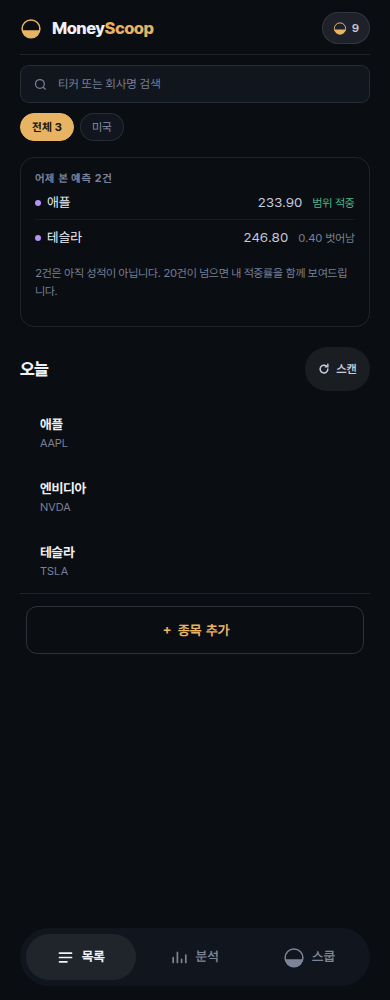
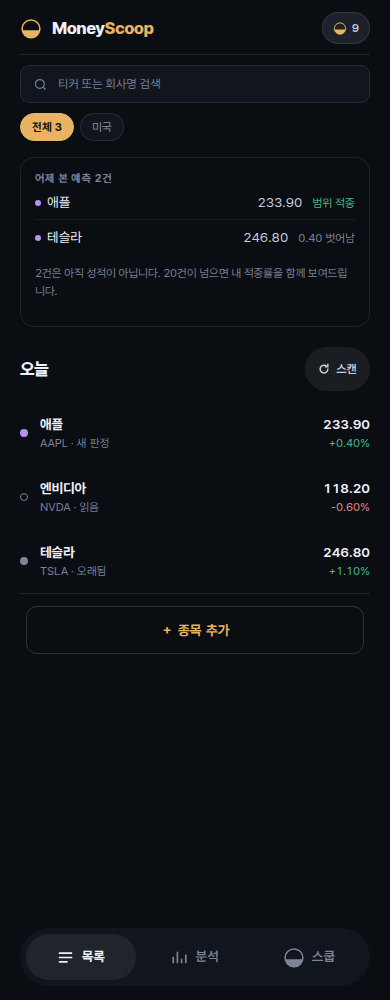
feat(mobile): 하드웨어 뒤로가기를 실제로 닿게 한다 — @capacitor/app 도입(P1a Task 7)
시트(Task 5·6)가 MSSheet 의 프로덕션 소비자가 된 뒤로 남은 마지막 조각. @capacitor/app
8.1.1 을 더해 App.addListener("backButton", ...) 로 실제 등록 경로를 열었다 — Cordova
backbutton 리스너는 안전망으로 남기되(native-bridge.js 실측: 플러그인이 있으면 실제
디스패치는 App 쪽만 한다) 재진입 가드로 두 경로가 겹쳐 처리되는 일을 막았다.

end-to-end 실증 시험(shell-backbutton-e2e.test.mjs)이 실제 MSTierSheet+MSSheet 스택을
열어 shell.js 가 실제로 등록한 리스너를 발화시킨다 — 변이(MSSheet.closeTop() 우선 처리
제거)로 실패를 확인한 뒤 원복. gate-routes.mjs 의 watchlist 시드에 ms_scan 을 더해
읽음 상태 3종(.wl-dot)이 브라우저에서 실제로 그려지는지도 관문에 올렸다(Task 6 리뷰가
넘긴 공백).

map/CLAUDE.md 에 "새 npm 의존성 금지"가 공식 Capacitor 플러그인은 막지 않는다는 판정을
명문화(admob 선례 + 이번 app 선례). APK 재빌드(12,569,484바이트) — 실행은 안 함(운영
지갑 보호).

tests/run.sh 1611건 · gate-browser.mjs 8/8 통과.

diff --git a/map/mobile/www/shell.js b/map/mobile/www/shell.js
@@ -97,31 +97,40 @@
     // 안드로이드 하드웨어 백. 라우터가 false 를 주면(더 이상 처리할 스택이 없다) 앱에 넘긴다(종료).
     // navigator 는 UMD 팩토리 인자가 아니라 브라우저 전역이다(이 저장소의 다른 UMD 모듈과
     // 같은 관례 — factory() 는 인자 없이 불린다, index.html 참고) — 자기 스코프의 `root`
-    // 파라미터를 참조하면 어디서도 정의되지 않은 이름이라 backbutton 이 눌리는 순간 던진다.
+    // 파라미터를 참조하면 어디서도 정의되지 않은 이름이라 back 이 눌리는 순간 던진다.
     //
-    // ⚠ P0 리뷰 실측(C1): 아래 리스너는 지금 실기기에서 절대 안 불린다. "backbutton" 은
-    // Cordova 가 쏘는 document 이벤트인데 이 앱은 Capacitor 8 이고, package.json 에
-    // `@capacitor/app` 이 없다 — 그 플러그인이 없으면 Capacitor 의 native-bridge 는
-    // backbutton 을 흉내조차 안 낸다(cordova.js 도 0바이트 자리표시자). MainActivity/Bridge
-    // 쪽에도 onBackPressed 오버라이드가 없다. 그래서 지금은 **어느 화면에서든 하드웨어
-    // 백 = 즉시 앱 종료**이고, 아래 코드(시트 우선 처리·router.back())는 그 사실과 무관하게
-    // 한 번도 실행되지 않는 도달 불가능한 경로다.
-    // 지우지 않는 이유: 로직 자체(시트 우선 → 라우터 → 종료)는 옳고 P1 이 그대로 쓴다.
-    // 진행 현황(2026-08-18 갱신, P1a Task 6 시점) — ②는 끝났다: tier-sheet.js(Task 5)에
-    // 이어 screens/watchlist.js 의 ＋Add 시트(Task 6)도 MSSheet 로 이관해, 지금 MSSheet.open
-    // 의 프로덕션 호출자는 둘이다("백이 시트부터 닫는다"를 보여줄 시트가 이제 앱에 있다).
-    // 남은 건 ①`@capacitor/app` 추가와 ③APK 재빌드·실기기 재검증 — 이 둘을 한 세트로
-    // 묶어야 한다. 시트 이관은 끝났지만 플러그인이 여전히 없으므로 위 P0 실측(C1)은 그대로
-    // 유효하다: 지금도 실기기 하드웨어 백 = 즉시 앱 종료이고, 아래 리스너는 여전히 한 번도
-    // 실행되지 않는 도달 불가능한 경로다. 플러그인 없이 이 이관만으로는 아무것도 안 바뀐다
-    // (P0 자체가 "플러그인만 넣고 이관을 빼먹은" 실패의 재시작이었다 — 이번엔 그 반대로
-    // 이관만 끝내고 플러그인이 없는 상태이니, 다음 라운드가 플러그인 없이 "이제 백이 된다"고
-    // 말하면 그게 새 버전의 같은 실패다).
-    document.addEventListener("backbutton", function () {
+    // P1a Task 7 — `@capacitor/app` 을 도입해 이 경로가 실제로 닿게 됐다. P0/Task 5·6 이
+    // 남긴 실측(git log 참고)은 그때는 사실이었다: 플러그인이 없으면 "backbutton" document
+    // 이벤트는 실기기에서 한 번도 안 불린다. 지금은 있고, 실제로 부르는 것은 그 이벤트가
+    // 아니라 **Capacitor App 플러그인의 "backButton" 이벤트**다 — 두 경로를 다 등록해 둔다:
+    //   ① `App.addListener("backButton", ...)` — 네이티브가 실제로 부르는 경로.
+    //   ② `document.addEventListener("backbutton", ...)` — Cordova 전용이라 지금도 실기기에서
+    //      직접 디스패치되진 않는다(node_modules/@capacitor/android 의 native-bridge.js 실측:
+    //      App 플러그인이 있으면 이 등록 자체는 통과시키지만, 그게 하는 일은 App 의 기본
+    //      종료 동작을 죽이는 더미 리스너를 붙이는 것뿐이지 "backbutton" 이벤트를 실제로
+    //      쏘는 게 아니다). 지우지 않는 이유는 안전망이다 — `@capacitor/app` 이 없는 빌드
+    //      (플러그인 설치가 깨졌거나 옛 APK)에서도 이 줄만은 조용히 죽지 않고 남는다.
+    // 같은 물리적 누름에 두 경로가 겹쳐 불릴 가능성(플랫폼이 훗날 실제로 backbutton 을
+    // 디스패치하게 바뀌는 경우 등)에 대비해, 처리 자체는 handleBack() 하나로 모으고 한 번
+    // 처리하면 다음 매크로태스크까지 재진입을 막는다 — 같은 틱 안에서 두 리스너가 연달아
+    // 불려도 시트가 두 번 닫히거나 라우터가 두 단계 물러나지 않는다.
+    var backHandling = false;
+    function handleBack() {
+      if (backHandling) return;
+      backHandling = true;
+      setTimeout(function () { backHandling = false; }, 0);
       // 시트가 열려 있으면 화면을 바꾸지 않는다 — 시트만 닫는다(Task 5).
       if (MSSheet.closeTop()) return;
       if (!router.back() && typeof navigator !== "undefined" && navigator.app) navigator.app.exitApp();
-    });
+    }
+
+    document.addEventListener("backbutton", handleBack);
+
+    // Capacitor 플러그인은 네이티브 빌드에만 있다(ads.js 의 detect() 와 같은 관용구) —
+    // 브라우저 미리보기·노드 시험·플러그인이 아직 없는 빌드에선 조용히 건너뛴다(가드).
+    var cap = (typeof window !== "undefined") ? window.Capacitor : null;
+    var capApp = (cap && cap.Plugins) ? cap.Plugins.App : null;
+    if (capApp && capApp.addListener) capApp.addListener("backButton", handleBack);
     return router;
   }
 

diff --git a/map/mobile/docs/rebuild/PROGRESS.md b/map/mobile/docs/rebuild/PROGRESS.md
@@ -19,13 +19,13 @@
 
 ## 막힌 것 / 사용자 대기
 
-- **APK 실기기 확인 대기** — `mobile/android/app/build/outputs/apk/debug/app-debug.apk`(12,569,409 바이트, 2026-08-18 14:51 재빌드 — 최종 리뷰 수정 웨이브 반영)를 사용자가 실기기에 설치해 아래 3항목을 확인해야 P1 착수 가능:
+- **APK 실기기 확인 대기** — `mobile/android/app/build/outputs/apk/debug/app-debug.apk` 를 사용자가 실기기에 설치해 아래 항목을 확인해야 P1 착수 가능:
   1. 하단 탭 3개(목록·분석·스쿱)가 보이고 눌린다
   2. 탭을 오갔다 돌아오면 보던 화면이 남아 있다
   3. 리포트가 열린다(이전 APK 는 여기서 죽었다 — `MSPreds` 전역 충돌)
+  4. **뒤로가기가 시트 → 화면 → 앱 종료 순으로 동작한다**(P1a Task 7 — `@capacitor/app` 도입 + 실증 시험 이후 재검증 항목)
   - **P0 는 뼈대(탭바·라우터·시트)만 세운 것** — 화면 내용물(리포트 27개 지표 중 5개만 노출, 지갑 7일 상자 등)은 대부분 개편 이전 그대로다. P1~P5 가 시안대로 다시 그린다. APK 를 열어도 "왜 안 예뻐졌지"는 P0 스코프 밖.
   - ⚠ APK 를 열면 지갑이 운영 서버(`wallet-api.php`)에 실제로 붙어 진짜 계정이 생기고 개설 지급이 실행된다.
-- **하드웨어 뒤로가기는 P0 에서 미동작** — 최종 리뷰 C1 실측: 이 앱은 Capacitor 8 인데 `@capacitor/app` 이 의존성에 없어 `backbutton` 이벤트(Cordova 전용)가 실기기에서 한 번도 안 불린다. 지금은 어느 화면에서든 하드웨어 백 = 즉시 앱 종료. 핸들러 로직(시트 우선 → 라우터 → 종료)은 `shell.js` 에 그대로 남아 있고 단위 시험도 통과하지만 "도달 불가능"이다. **P1 에서** ①`@capacitor/app` 도입 ②기존 시트 둘(tier-sheet.js·screens/watchlist.js)을 `MSSheet` 로 이관 ③APK 재빌드·재검증을 한 세트로 처리한다(절반만 하면 다시 "만들었는데 안 닿는" 실패가 된다). 새 npm 의존성 추가라 P0 규율(빌드 도구·외부 라이브러리 금지와는 결이 다른, "새 의존성은 신중히" 원칙) 밖에서 별도 판단이 필요했다.
 - **P0 에서 2단(폴드) 레이아웃을 일시 후퇴시킨다** — 라우터 위에 2단을 얹으면 "왼쪽 칸은 무슨 라우트인가"가 답이 없다. 시안 9b/9c 는 좌측 레일까지 요구하므로 P5 에서 통째로 설계한다. 그때까지 폴드 펼침은 단일 열이다
 
 ---
@@ -76,6 +76,7 @@
 
 > 최신이 위. 태스크마다 한 줄: `날짜 · 페이즈/태스크 · 결과 · 커밋`
 
+- 2026-08-18 · P1a Task 7 · `@capacitor/app` 8.1.1 도입 + `App.addListener("backButton", ...)` 배선(Cordova `backbutton` 경로는 안전망으로 유지, 재진입 가드로 중복 처리 방지) + 실제 `MSTierSheet`/`MSSheet` 를 여는 end-to-end 실증 시험(`shell-backbutton-e2e.test.mjs`, 변이로 증명) + `gate-routes.mjs` watchlist 시드에 `ms_scan` 보강(읽음 상태 3종 `.wl-dot` 실제 렌더 확인) + `map/CLAUDE.md`/`shell.js` 주석 정정 + APK 재빌드 · `tests/run.sh` 1611건·브라우저 관문 8/8 통과 · (해시는 이 커밋 자체)
 - 2026-08-18 · P0 최종 리뷰 수정 웨이브(Critical 1·Important 6·Minor 2) · C1(하드웨어 백 미동작 사실을 코드·시험·원장에 정직하게 표기, 동작화는 P1로) · I1(router.go() 되감기 + 시험 추가) · I2(gate-browser.mjs 치환 no-op 가드, 변이로 증명) · I3(분석 탭 콜드 진입 폴백을 워치리스트 첫 종목까지 확장) · I5(shell.js data-screen 표식 + gate-routes.mjs 선택자 이행) · I7(지갑 mock 필드명을 wallet-lib.php 실제 반환에 맞춤 — NaN 스크린샷 원인이 mock 이었음, 스샷 육안 확인) · Minor(drawBar try/finally, __gate_*.html gitignore) · `tests/run.sh` 1546건 통과 · 브라우저 관문 6/6 통과 · APK 재빌드(12,569,409 바이트) · `2edb944`
 - 2026-08-18 · P0 Task 6 · 관문 3중 통과(1545+6건) · APK 빌드(12.6MB) · `map/CLAUDE.md`·본 원장 갱신 · `8642ca0`
 - 2026-08-18 · P0 Task 5 · 공용 하단 시트(`sheet.js`) + 뒤로가기가 시트를 먼저 닫는 배선 + 실제 발화 시험(`shell-backbutton.test.mjs`) · `3bb8d68` `997815e`

diff --git a/map/CLAUDE.md b/map/CLAUDE.md
@@ -77,6 +77,15 @@
 
 실제 하한은 `mobile/android/variables.gradle` 의 `minSdkVersion 24`(Android 7.0 Nougat)다. 이 지점부터 Android System WebView 는 OS 와 분리돼 Play 스토어로 자동 업데이트되는 Chromium 기반 컴포넌트다(`mobile/docs/phase0-measurements.md` 가 이미 "Chrome 과 WebView 는 같은 Chromium/V8" 전제로 실기기 Chrome 150 을 측정에 썼다). `@capacitor-community/admob`(Google Play 서비스 하드 의존)이 이미 Play 스토어 보유를 전제하므로 그 자동 업데이트 경로도 전제된다. **확정 안전선은 ES2017**(async/await 포함, Chrome 55·2016-12) — 이 셋(minSdk·Capacitor 자체 요구·admob 의 GMS 의존)이 판정을 지탱하는 1차 근거다. **정황(1차 근거를 뒤집진 않지만 그 자체로는 이중검증이 아님)**: async/await 는 `scan.js` 1개 파일에 실제 문법으로 이미 배포돼 있다(`wallet.js` 에는 `await` 문자열이 나오지만 61번 줄 주석일 뿐 실제 문법은 아니다 — 확인 없이 "14개 파일이 쓴다"고 적었던 것은 오류였다, 2026-08-19 리뷰 정정). const/let/화살표(ES2015)는 실제로는 `draw-panels.js`·`draw-layers.js`·`draw-preds.js` 3개 파일에서만 코드로 쓰인다 — 원 브리프가 위반으로 지목한 바로 그 세 파일이며, 나머지 파일의 grep 일치는 한국어 주석의 백틱 코드 표기(예: `` `IND_TIERS` 다``)나 문자열 리터럴이었다. 관문은 `mobile/test/syntax-floor.test.mjs` — ES2017 보다 확실히 나중이면서 지금 안 쓰는 문법만(옵셔널 체이닝·null 병합·논리 대입·private 필드·`Object.hasOwn`·`groupBy`·배열 비파괴 복사 메서드) 금지한다.
 
+## ⑥ `mobile/` 의존성 정책 — "새 npm 의존성 금지"는 공식 Capacitor 플러그인을 막지 않는다
+
+이 저장소 전반의 "빌드 도구·외부 라이브러리 금지"(위 스쿱포지·스쿱보드 규율과 같은 문장)를 모바일의 `package.json` 에도 그대로 적용하면 **네이티브 앱을 못 만든다** — Capacitor 자체가 npm 패키지고(`@capacitor/core`·`@capacitor/android`·`@capacitor/cli`), 하드웨어 기능(광고·백버튼 등)은 각각 별도 공식 플러그인 npm 패키지로 온다. 이 규율이 실제로 막으려는 것은 **프런트엔드 빌드 파이프라인**(webpack/babel/번들러)과 **`www/**` 안에서 로직을 대신 짜주는 프런트엔드 라이브러리**(jQuery·React 류)다 — `www/**` 는 여전히 순수 HTML·CSS·바닐라 JS(classic `<script src>`, 빌드 없음)이고 이 원칙은 안 바뀐다.
+
+- **판정(선례 2건)**: `@capacitor-community/admob` 8.1.0(2026-08-16, 광고 보상) → `@capacitor/app` 8.1.1(2026-08-18, P1a Task 7 — 하드웨어 뒤로가기 배선). **공식 Capacitor 네임스페이스(`@capacitor/*`) 또는 Capacitor 공식 커뮤니티 플러그인(`@capacitor-community/*`)은 이 금지의 대상이 아니다** — 네이티브 OS 기능에 접근하는 것이 존재 이유고, 대체 경로가 없다(하드웨어 백버튼을 순수 JS/DOM 이벤트만으로 잡을 방법은 없다 — `mobile/www/shell.js` 의 배선 주석이 이유를 실측으로 남겼다).
+- **여전히 금지**: 위 두 네임스페이스 밖의 npm 패키지(유틸리티 라이브러리·폴리필·상태관리 등), 빌드 도구·번들러, `www/**` 안에서 실행되는 프런트엔드 프레임워크.
+- **버전은 정확히 고정한다**(`--save-exact`, 캐럿 없음) — admob·app 둘 다 `package.json` 에 정확한 버전 문자열(`"8.1.0"`·`"8.1.1"`)로 박혀 있다. `@capacitor/core`(`^8.5.0`)와 메이저가 어긋나면 네이티브 빌드가 깨지므로 peer 요구사항(`>=8.0.0` 류)을 확인하고 고른다.
+- 새 플러그인을 더할 때: `npm install`(package.json 갱신) → `npx cap sync android`(네이티브 Gradle 배선 — `android/app/capacitor.build.gradle`·`android/capacitor.settings.gradle` 재생성, 둘 다 "DO NOT EDIT" 생성물이지만 커밋 대상) → `./gradlew assembleDebug` 로 실제 빌드 확인까지가 한 세트. 절차 상세는 `mobile/docs/ANDROID-BUILD.md`.
+
 ---
 
 # 🔥 스쿱포지 (Scoop Forge) — 플래그십
